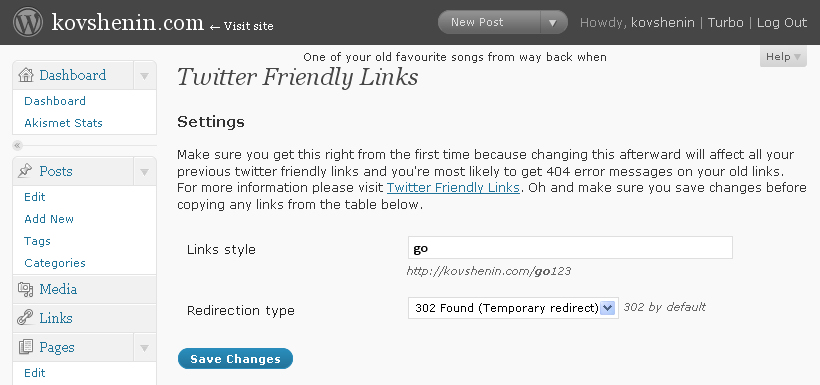
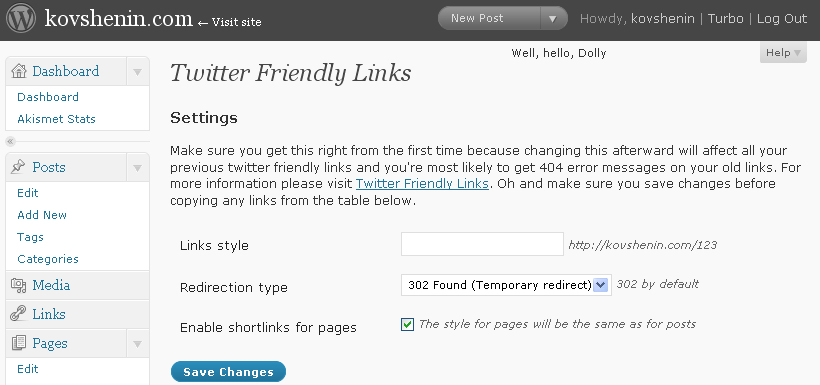
tagging 0.3
git-svn-id: https://plugins.svn.wordpress.org/twitter-friendly-links/trunk@116138 b8457f37-d9ea-0310-8a92-e5e31aec5664

diff --git a/js/nav_settings.js b/js/nav_settings.js
@@ -1,0 +1,38 @@
+TwitterFriendly.viewing = "posts";
+
+jQuery(document).ready(function(){
+	jQuery("#twitter_links_posts").click(function(){
+		jQuery(".twitter_links_postpage").attr("style", "");
+		jQuery(this).attr("style", "font-weight: bold");
+		TwitterFriendly.viewing = "posts";
+		jQuery(".twitter_friendly.pages-numbers").hide();
+		jQuery(".twitter_friendly.posts-numbers").show();
+		jQuery(".twitter_friendly.page-numbers:first").click();
+		jQuery("#twitter_links_displaying_total").html(TwitterFriendly.total_posts);
+		return false;
+	});
+	
+	jQuery("#twitter_links_pages").click(function(){
+		jQuery(".twitter_links_postpage").attr("style", "");
+		jQuery(this).attr("style", "font-weight: bold");
+		TwitterFriendly.viewing = "pages";
+		jQuery(".twitter_friendly.posts-numbers").hide();
+		jQuery(".twitter_friendly.pages-numbers").show();
+		jQuery(".twitter_friendly.page-numbers:first").click();
+		jQuery("#twitter_links_displaying_total").html(TwitterFriendly.total_pages);
+		return false;
+	});
+		
+	jQuery(".twitter_friendly.page-numbers").click(function(){
+		var page = this.innerHTML;
+		jQuery(".twitter_friendly.page-numbers").removeClass("current");		
+		jQuery(this).addClass("current");
+		jQuery("#twitter_links_table_body").fadeTo("fast", 0.01, function(){
+			jQuery(this).load(TwitterFriendly.plugin_url + "/ajax/nav.php?" + TwitterFriendly.viewing + "&page=" + page , null, function(){
+				jQuery("#twitter_links_displaying").html(((page-1)*15+1) + "-" + (page*15));
+				jQuery(this).fadeTo("slow", 1);
+			});
+		});
+		return false;
+	});
+});

diff --git a/twitter-friendly-links.php b/twitter-friendly-links.php
@@ -2,28 +2,40 @@
 /*
 Plugin Name: Twitter Friendly Links
 Plugin URI: http://kovshenin.com/wordpress/plugins/twitter-friendly-links/
-Description: Twitter Friendly Links
+Description: Your own TinyURL within your own domain name! Automatic shortlinks for your posts and pages.
 Author: Konstantin Kovshenin
-Version: 0.2
+Version: 0.3
 Author URI: http://kovshenin.com/
 
 */
 
+register_activation_hook(__FILE__, 'twitter_friendly_links_activate' );
 add_action('template_redirect', 'twitter_friendly_links');
 add_action("admin_menu", "twitter_friendly_links_menu");
 add_action("admin_menu", "twitter_friendly_links_box");
 
+function twitter_friendly_links_activate() {
+	$options = get_option("twitter_friendly_links");
+	
+	// Default plugin options
+	$defaults = array(
+		"style" => "go",		// default style is example.com/go123
+		"redirect" => 302,		// temporary redirect by default
+		"pages_enabled" => "",	// pages disabled by default
+	);
+	
+	foreach($defaults as $key => $default_value)
+		$options[$key] = (!isset($options[$key])) ? $default_value : $options[$key];
+	
+	update_option("twitter_friendly_links", $options);
+}
+
 function twitter_friendly_links() {
 	$options = get_option("twitter_friendly_links");
-	if (!isset($options["style"]))
-	{
-		$options["style"] = "go"; // can change the default v
-		$options["redirect"] = 302; // Temporary redirect by default
-		update_option("twitter_friendly_links", $options);
-	}
 	
 	$style = $options["style"];
 	$redirect = $options["redirect"];
+	$pages_enabled = ($options["pages_enabled"] == "checked") ? true : false;
 	
 	$uri = $_SERVER["REQUEST_URI"];
 	$siteurl = get_option("siteurl");
@@ -43,30 +55,57 @@ function twitter_friendly_links() {
 
 			header("Location: ".get_permalink());
 		}
+		elseif ($pages_enabled)
+		{
+			$post = new WP_Query("page_id=$post_id"); // Search thru pages
+			if ($post->have_posts())
+			{
+				$post->the_post();
+				if ($redirect == 301)
+					header("HTTP/1.1 301 Moved Permanently");
+				elseif ($redirect == 302)
+					header("HTTP/1.1 302 Found");
+					
+				header("Location: ".get_permalink());
+			}
+		}
 	}
 }
 
+function twitter_friendly_links_admin_scripts() {
+	$query = new WP_Query("posts_per_page=-1");
+	$total_posts = $query->post_count;
+	$query = new WP_Query("posts_per_page=-1&post_type=page");
+	$total_pages = $query->post_count;
+
+	$plugin_url = trailingslashit(get_bloginfo('wpurl')).PLUGINDIR.'/'. dirname(plugin_basename(__FILE__));
+	wp_enqueue_script('twitterfriendly_navsettings', $plugin_url.'/js/nav_settings.js', array('jquery'));
+	wp_localize_script('twitterfriendly_navsettings', 'TwitterFriendly', array(
+		"plugin_url" => $plugin_url,
+		"total_posts" => $total_posts,
+		"total_pages" => $total_pages,		
+	));
+}
+
 function twitter_friendly_links_menu() {
-	add_options_page('Twitter Friendly Links', 'Twitter Friendly Links', 8, __FILE__, 'twitter_friendly_links_options');
+	$twitter_friendly_admin = add_options_page('Twitter Friendly Links', 'Twitter Friendly Links', 8, __FILE__, 'twitter_friendly_links_options');
+	add_action("admin_print_scripts-$twitter_friendly_admin", "twitter_friendly_links_admin_scripts");
 }
 
 function twitter_friendly_links_options() {
 	$options = get_option("twitter_friendly_links");
-	if (!isset($options["style"]))
-	{
-		$options["style"] = "go";
-		$options["redirect"] = 302;
-	}
 	
 	if (isset($_POST["twitter-friendly-links-submit"]))
 	{
 		$options["style"] = $_POST["style"];
 		$options["redirect"] = $_POST["redirect"];
+		$options["pages_enabled"] = $_POST["pages_enabled"];
 		update_option("twitter_friendly_links", $options);
 	}
 	
 	$style = $options["style"];
 	$redirect = $options["redirect"];
+	$pages_enabled = $options["pages_enabled"];
 	
 	$selected[$redirect] = " selected=\"selected\"";
 	
@@ -82,7 +121,7 @@ function twitter_friendly_links_options() {
 		<tr valign="top">
 			<th scope="row"><label for="style">Links style</label></th>
 			<td>
-				<input type="text" class="regular-text code" value="<?=$style;?>" id="style" name="style"/>
+				<input type="text"  value="<?=$style;?>" id="style" name="style"/>
 				<span class="setting-description"><?= get_option("siteurl"); ?>/<strong><?=$style;?></strong>123</span>
 			</td>
 		</tr>
@@ -96,35 +135,88 @@ function twitter_friendly_links_options() {
 				<span class="setting-description">302 by default</span>
 			</td>
 		</tr>
+		<tr valign="top">
+			<th scope="row"><label for="pages_enabled">Enable shortlinks for pages</label></th>
+			<td>
+				<input type="checkbox" value="checked" <?=$pages_enabled;?> id="pages_enabled" name="pages_enabled"/>
+				<span class="setting-description">The style for pages will be the same as for posts</span>
+			</td>
+		</tr>
 	</tbody>
 	</table>
 	<p class="submit">
 		<input type="submit" value="Save Changes" class="button-primary" name="Submit"/>
 	</p>
 </form>
-<h3>Links</h3>
+<h3>List of short links</h3>
+<?php
+	$query = new WP_Query("posts_per_page=-1");
+	$total_posts = $query->post_count;
+	$query = new WP_Query("posts_per_page=-1&post_type=page");
+	$total_pages = $query->post_count;
+?>
+<div class="tablenav">
+	<div class="alignleft actions">
+		<a href="#" id="twitter_links_posts" class="twitter_links_postpage" style="font-weight: bold;">Posts</a> / 
+<?php
+	if ($pages_enabled == "checked")
+		echo '<a href="#" id="twitter_links_pages" class="twitter_links_postpage">Pages</a>';
+	else
+		echo '<a href="#" id="twitter_links_pages"></a>Pages (disabled)';
+?>
+	
+	</div>
+	
+	<div class="tablenav-pages"><span class="displaying-num">Displaying <span id="twitter_links_displaying">1-15</span> of <span id="twitter_links_displaying_total"><?=$total_posts;?></span></span>
+	<a href="#" class="twitter_friendly page-numbers current">1</a>
+	<span class="twitter_friendly posts-numbers">
+<?php
+	$pages = $total_posts / 15;
+	for ($i = 2; $i <= $pages; $i++)
+	{
+		echo '<a href="#" class="twitter_friendly page-numbers">'.$i.'</a> ';
+	}
+?>
+	</span>
+	<span class="twitter_friendly pages-numbers" style="display: none">
+<?php
+	$pages = $total_pages / 15;
+	for ($i = 2; $i <= $pages; $i++)
+	{
+		echo '<a href="#" class="twitter_friendly page-numbers">'.$i.'</a> ';
+	}
+?>
+	</span>
+
+	<div class="clear"></div>
+</div>
 <table class="widefat fixed">
 	<thead>
 		<tr>
+			<th class="manage-column column-name" id="title" scope="col" style="width: 2em;">&nbsp;</th>
 			<th class="manage-column column-name" id="title" scope="col">Title</th>
 			<th class="manage-column column-name" id="twitterlink" scope="col" style="width: 25em;">Friendly Link</th>
 		</tr>
 	</thead>
 	<tfoot>
 		<tr>
+			<th class="manage-column column-name" id="title" scope="col">&nbsp;</th>
 			<th class="manage-column column-name" id="title" scope="col">Title</th>
 			<th class="manage-column column-name" id="twitterlink" scope="col">Friendly Link</th>
 		</tr>
 	</tfoot>
-	<tbody>
+	<tbody id="twitter_links_table_body">
 <?
-	$query = new WP_Query("posts_per_page=-1");
+	$query = new WP_Query("posts_per_page=15");
+	$i = 0;
 	while ($query->have_posts())
 	{
 		$query->the_post();
-		$friendly_link = get_option("siteurl") . "/" . $style . $query->post->ID;
+		$friendly_link = twitter_link($query->post->ID);
+		$i++;
 ?>
 			<tr class="alternate">
+				<td style="text-align: right"><?=$i;?>.</td>
 				<td><a href="<? the_permalink(); ?>"><? the_title();?></a><br /></td>
 				<td><a href="<?= $friendly_link;?>"><?= $friendly_link; ?></a></td>
 			</tr>
@@ -138,11 +230,16 @@ function twitter_friendly_links_options() {
 }
 
 function twitter_friendly_links_box() {
+	$options = get_option("twitter_friendly_links");
+	$pages_enabled = ($options["pages_enabled"] == "checked") ? true : false;
+	 
 	if (function_exists("add_meta_box")) {
 		add_meta_box("twitter_friendly_id", "Twitter Stuff", "twitter_friendly_links_inner_box", "post", "side");
+		if ($pages_enabled) add_meta_box("twitter_friendly_id", "Twitter Stuff", "twitter_friendly_links_inner_box", "page", "side");
 	}
 	else {
 		add_action("dbx_post_advanced", "twitter_friendly_links_old_box");
+		if ($pages_enabled) add_action("dbx_page_advanced", "twitter_friendly_links_old_box");
 	}
 }
 
@@ -194,11 +291,17 @@ if (!function_exists("utf8_strlen")) {
 	}
 }
 
-function twitter_link() {
-	global $post;
+function twitter_link($id = 0) {
 	$options = get_option("twitter_friendly_links");
 	$style = $options["style"];
-	$post_id = $post->ID;
+	
+	if ($id == 0)
+	{
+		global $post;
+		$post_id = $post->ID;
+	}
+	else
+		$post_id = $id;
 	
 	$friendly_link = get_option("siteurl") . "/" . $style . $post_id;
 	

diff --git a/ajax/nav.php b/ajax/nav.php
@@ -1,0 +1,21 @@
+<?php
+	include('../../../../wp-config.php');
+	
+	if (current_user_can('level_10'))
+	{
+		$type = isset($_GET["pages"]) ? "page" : "post";
+		$query = new WP_Query("paged=".$_GET["page"]."&posts_per_page=15&post_type=$type");
+		$i = (intval($_GET["page"])-1)*15;
+		while ($query->have_posts())
+		{
+			$i++;
+			$query->the_post();
+			$friendly_link = twitter_link($query->post->ID); ?>
+				<tr class="alternate">
+					<td style="text-align: right"><?=$i;?>.</td>
+					<td><a href="<? the_permalink(); ?>"><? the_title();?></a><br /></td>
+					<td><a href="<?= $friendly_link;?>"><?= $friendly_link; ?></a></td>
+				</tr><?
+		}
+	}
+?>
